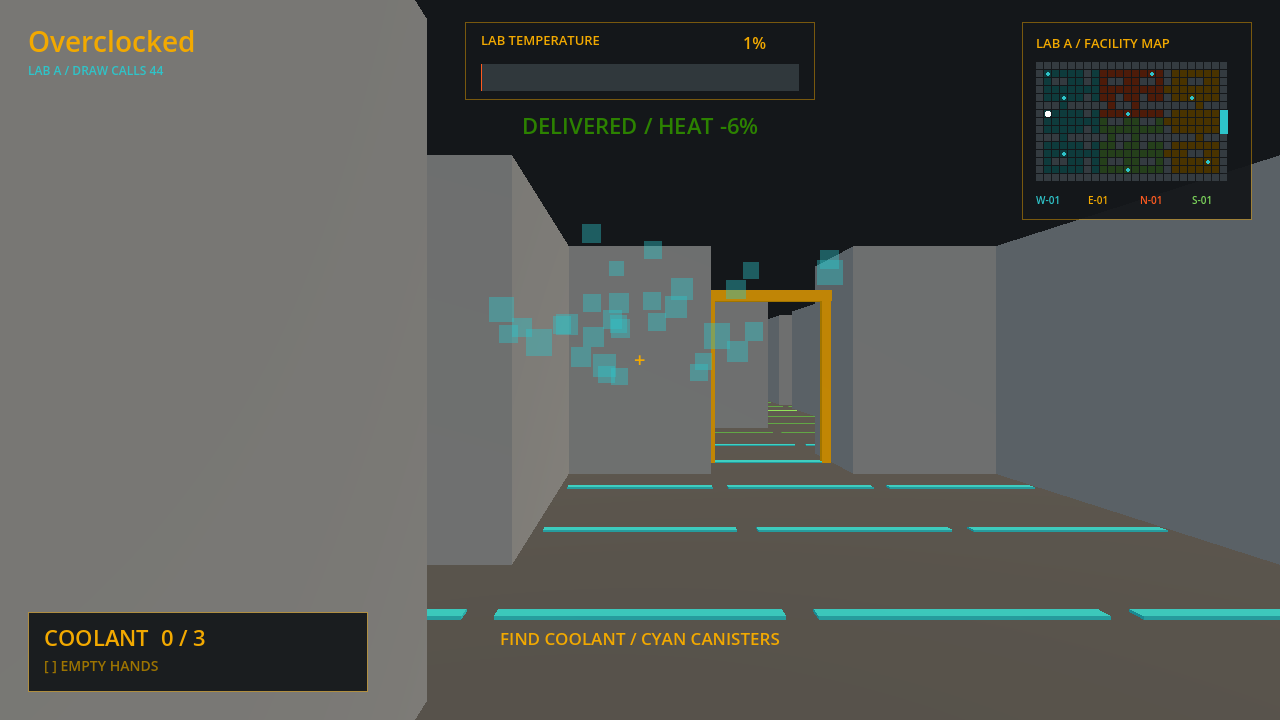
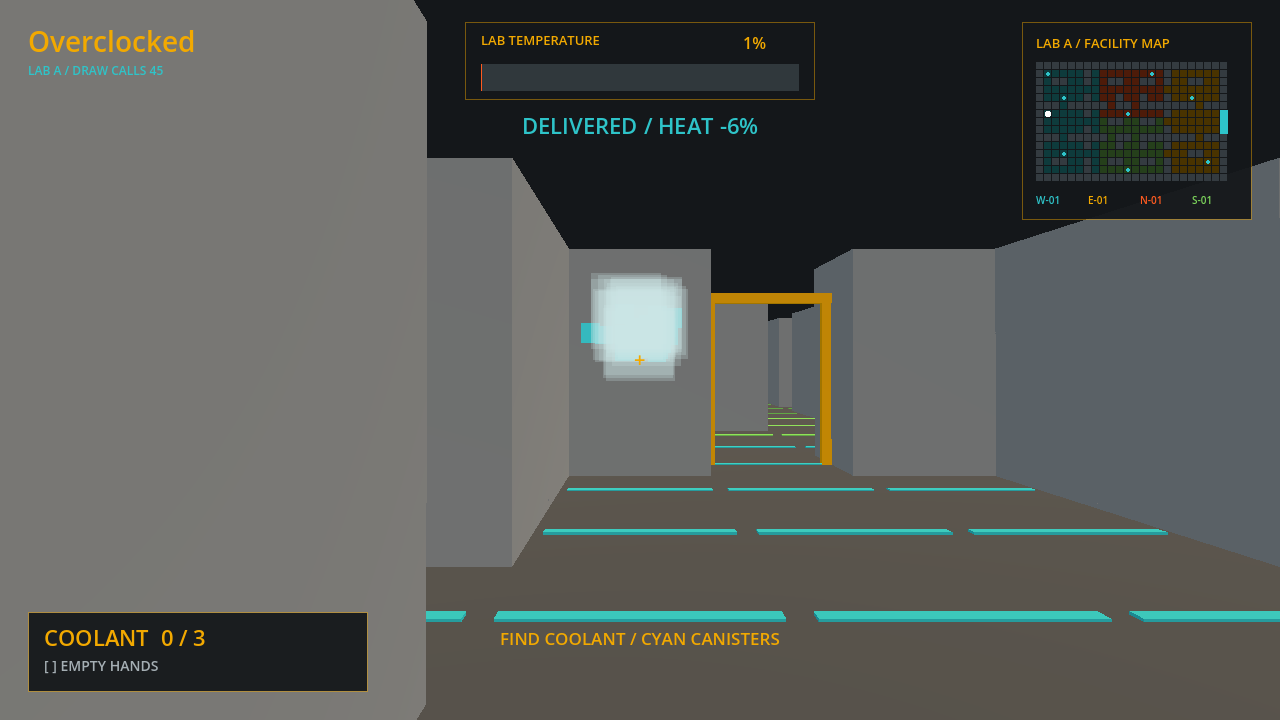
M2.3: add steam, sparks and motion-safe camera feedback

diff --git a/godot/docs/roadmap.md b/godot/docs/roadmap.md
@@ -30,7 +30,7 @@ Rough time is for part-time work (~10 h/week). Each milestone ends with a **cohe
 ### M2 — Teach + feedback + feel
 - [x] **M2.1** `maps/orientation.txt` + room triggers for R1–R4 (§3.6), idle-8 s hints, Skip, first-run flag. (Slime and hound in R3/R4 can be scripted fakes until M3.)
 - [x] **M2.2** `game/fx/feedback.gd`: one event bus (`signal fx(kind: StringName, data: Dictionary)`) → sounds, particles, HUD (§3.5).
-- [ ] **M2.3** Juice pass (D7): small camera kick (≤ 0.5°, off with "reduce motion"), steam, sparks, light shifts with Heat.
+- [x] **M2.3** Juice pass (D7): small camera kick (≤ 0.5°, off with "reduce motion"), steam, sparks, light shifts with Heat.
 - [ ] **M2.4** Settings menu (§3.9), saved to `user://settings.cfg`. Quality tiers (§4.6).
 - [ ] **M2.5** 👤 **Playtest #1:** 3–5 new players, no explanation. Write down where they get stuck in `docs/playtests/01.md`. Fix the top 3 problems before M3.
 

diff --git a/godot/docs/CHANGELOG.md b/godot/docs/CHANGELOG.md
@@ -16,3 +16,4 @@
 - 2026-11-06 — M1.7: Owner approved silhouette. Movement/cue feedback deferred by owner request to keep implementing; manual checks remain unchecked.
 - 2026-11-06 — M2.1: Added four safe orientation rooms, sequential gates, foam/hound training fakes, idle-8s hints, visible Skip and preserved settings progress. 25 tests and both running-scene smoke tests pass.
 - 2026-11-06 — M2.2: Unified HUD, synthesized audio and Compatibility particles under one typed feedback bus; sim events remain immutable and positional; 26 tests, both scene smokes and FX render pass.
+- 2026-11-06 — M2.3: Added airlock steam, hound sparks, bounded cosmetic camera kick and Reduce Motion suppression; corrected cue tinting. Runtime checks prove aiming/sim state remain unchanged; 26 tests and scene smokes pass.
